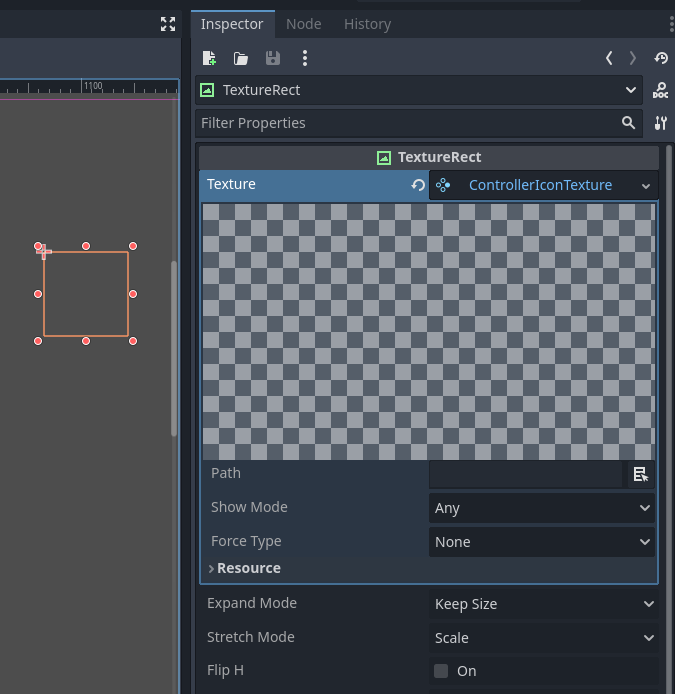
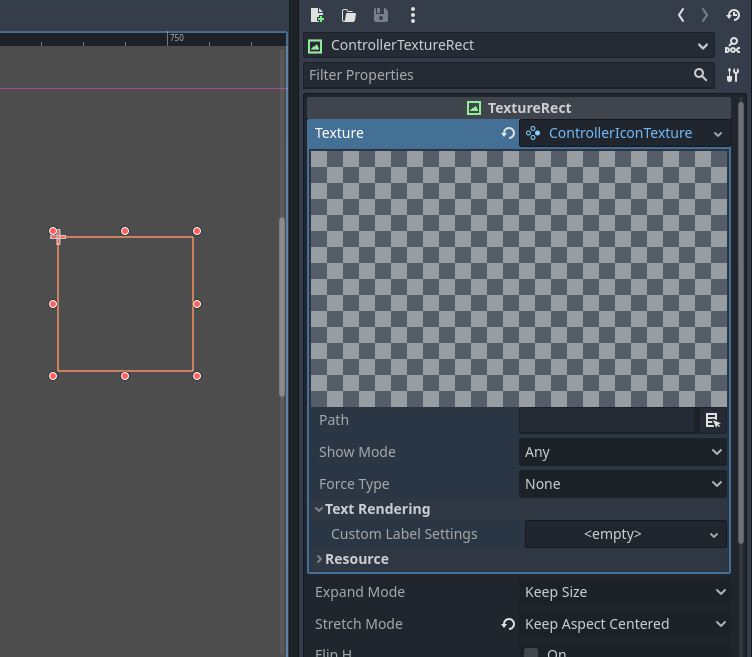
Document new text options

diff --git a/DOCS.md b/DOCS.md
@@ -33,6 +33,7 @@ The following properties are available:
 - `Path`: Specify the controller lookup path
 - `Show Mode`: Set the input type this icon will appear on. When set to `Keyboard/Mouse` or `Controller`, the object will hide when the opposite input method is used.
 - `Force Type`: When set to other than `None`, forces the displayed icon to be either `Keyboard/Mouse` or `Controller`. Only relevant for input actions, other types of lookup paths are not affected by this.
+- `Custom Label Settings`: When text rendering is needed for multi-icon prompts, the texture uses the addon's settings by default. If you want to override for this particular icon, you can specify it here.
 
 ![](screenshots/docs/path.png)
 
@@ -103,12 +104,16 @@ There is a settings resource file at `res://addons/controller_icons/settings.tre
 
 ![](screenshots/docs/settings.png)
 
-- `Joypad Fallback`: To what default controller type fallback to if automatic controller type detection fails.
-- `Joypad Deadzone`: Controller's deadzone for analogue inputs when detecting input device changes.
-- `Allow Mouse Remap`: If set, consider mouse movement when detecting input device changes.
-- `Mouse Min Movement`: Minimum "instantaneous" mouse speed in pixels to be considered for an input device change
-- `Custom Asset Dir`: Directory with custom controller icons to use. Refer to [Adding/removing controller icons](#addingremoving-controller-icons) for more instructions on how to do this.
-- `Custom Mapper`: Custom generic path mapper script to use. Refer to [Changing controller mapper](#changing-controller-mapper) for more instructions on how to do this.
+- **General**
+	- `Joypad Fallback`: To what default controller type fallback to if automatic controller type detection fails.
+	- `Joypad Deadzone`: Controller's deadzone for analogue inputs when detecting input device changes.
+	- `Allow Mouse Remap`: If set, consider mouse movement when detecting input device changes.
+	- `Mouse Min Movement`: Minimum "instantaneous" mouse speed in pixels to be considered for an input device change
+- **Custom Assets**
+	- `Custom Asset Dir`: Directory with custom controller icons to use. Refer to [Adding/removing controller icons](#addingremoving-controller-icons) for more instructions on how to do this.
+	- `Custom Mapper`: Custom generic path mapper script to use. Refer to [Changing controller mapper](#changing-controller-mapper) for more instructions on how to do this.
+- **Text Rendering**
+	- `Custom Label Settings`: Custom `LabelSettings` to use for text rendering on multi-icon prompts. Will be used by all icons by default, but can also be overridden on a per-icon basis.
 
 # Adding/removing controller icons
 
